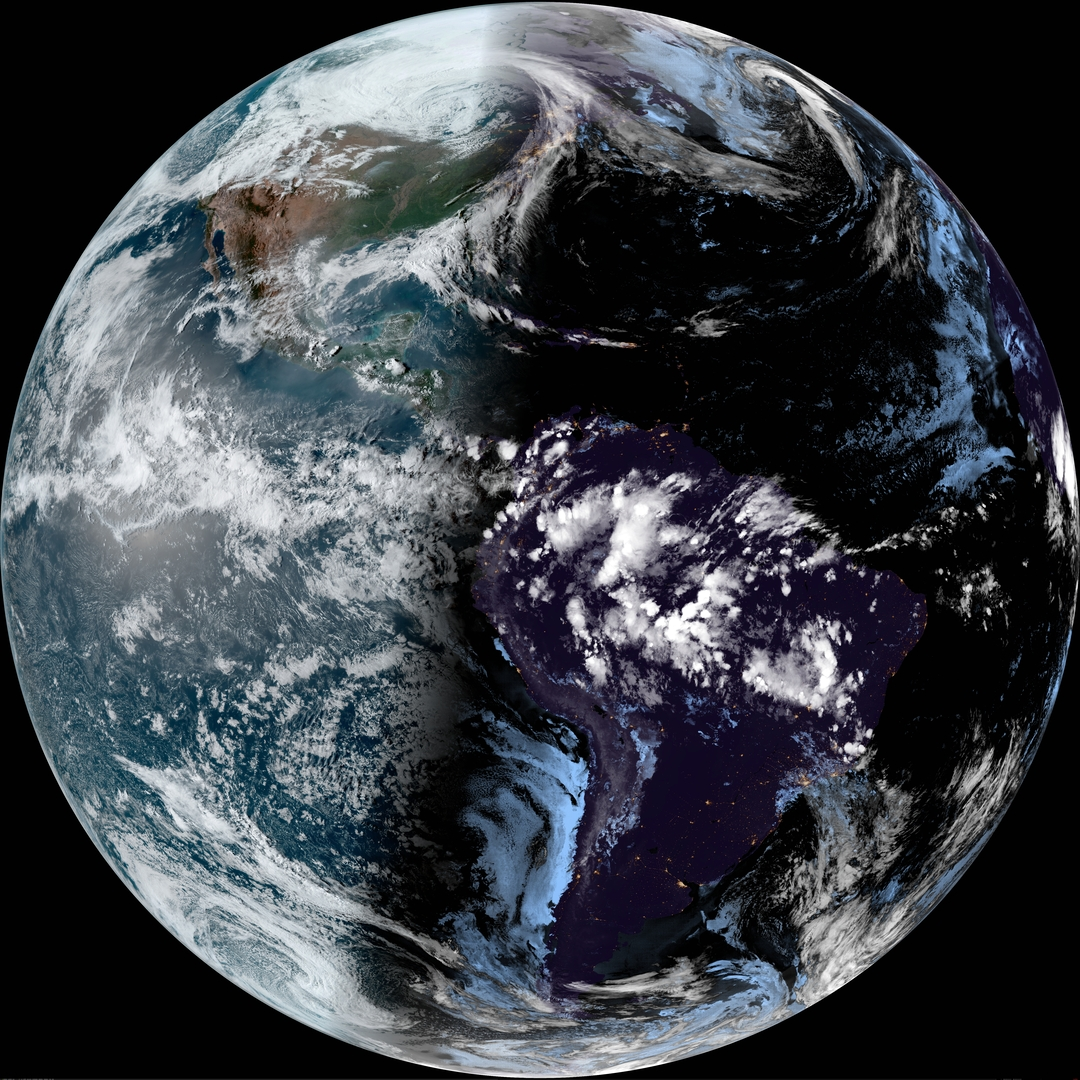
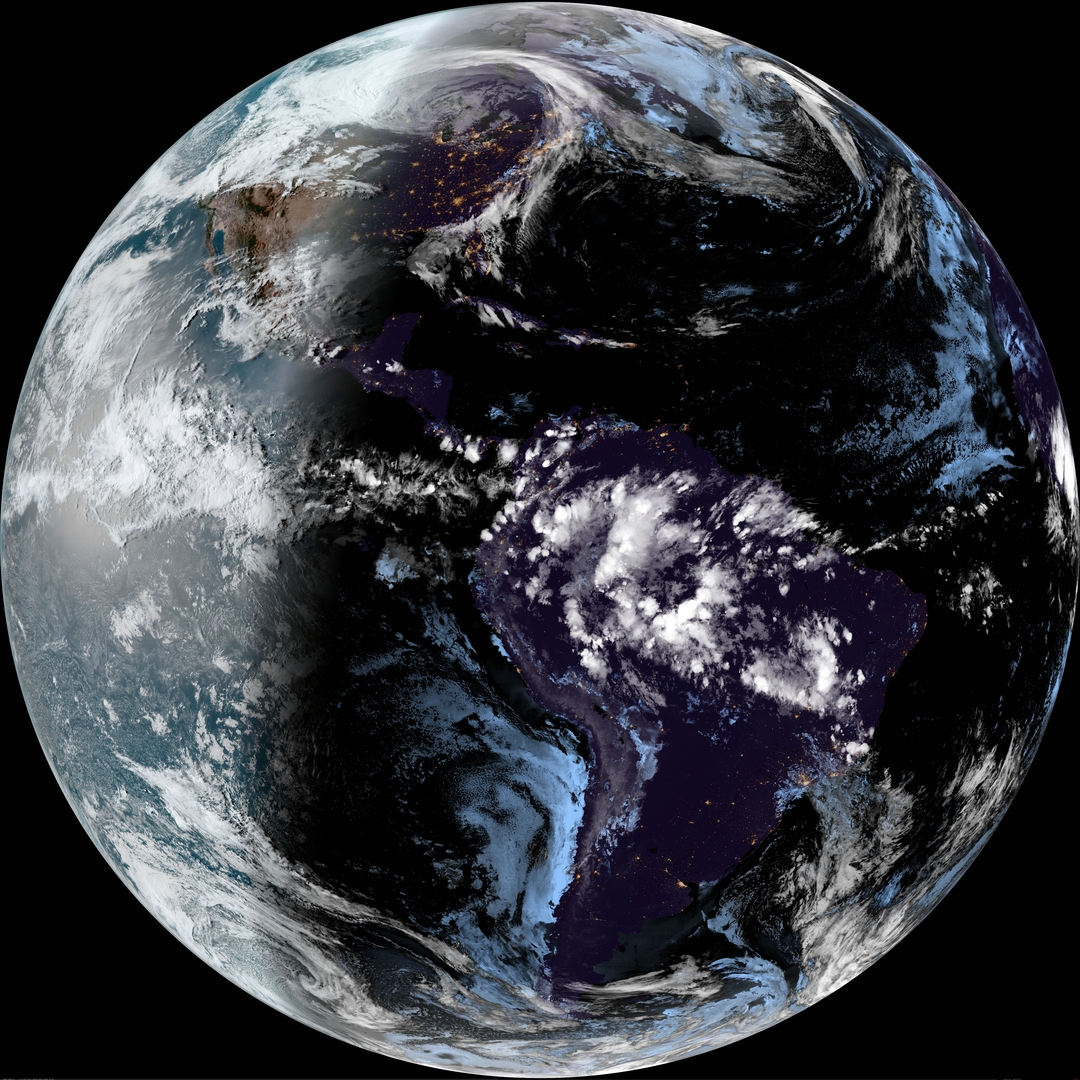
update images

diff --git a/index.html b/index.html
@@ -57,7 +57,7 @@
   </nav>
   <p class="last-updated">
     Latest images of Earth from <a href="https://www.goes-r.gov/mission/history.html">GOES</a> 17 (West) & 16 (East).<br>
-    Last updated: <date>2022-04-14 @ 23:13 UTC</date>.<br>
+    Last updated: <date>2022-04-15 @ 00:18 UTC</date>.<br>
     Updates every 4 hours.
   </p>
   <div class="sats">
